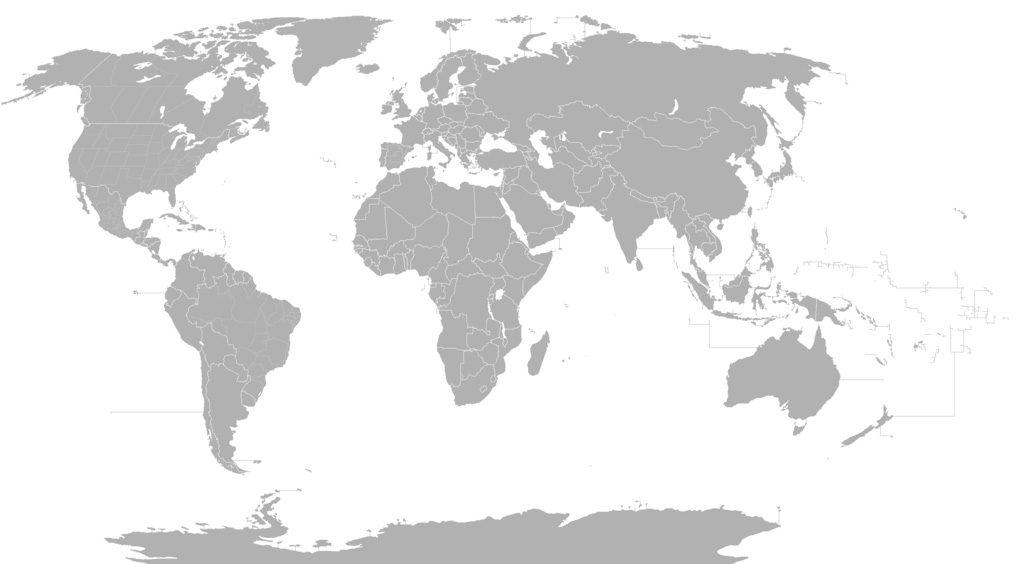
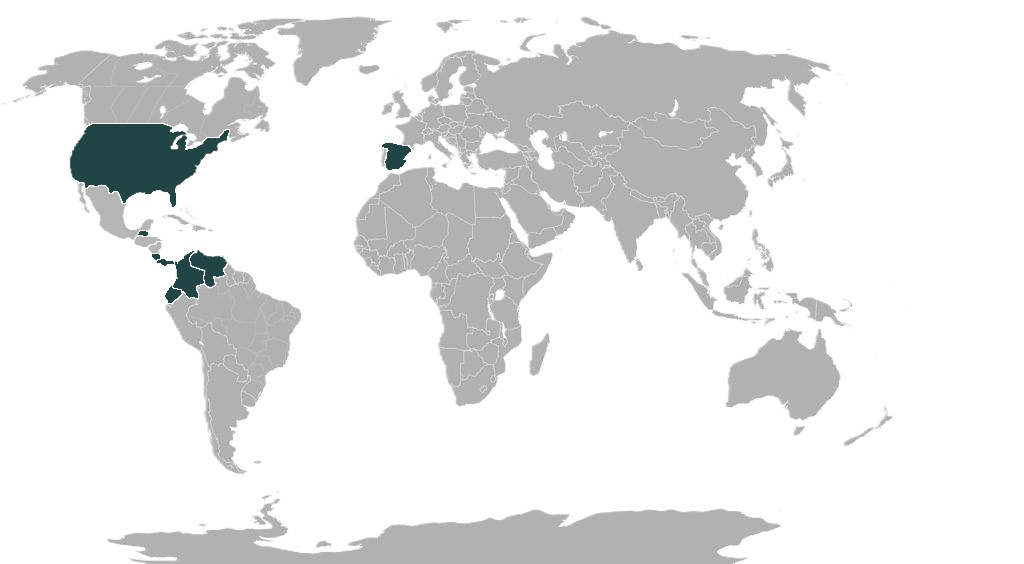
ajustes navbar y intento del mapa

diff --git a/Conocenos.html b/Conocenos.html
@@ -35,7 +35,7 @@
             <nav class="navigation-wrap">
                 <nav class="menu">
                     <nav role="navigation" class="navigation-items w-nav-menu">
-                        <a href="https://sparisca04.github.io/pixales/Conocenos.html" class="navigation-item w-nav-link w--current">¡Conócenos!</a>
+                        <a href="https://sparisca04.github.io/pixales/Conocenos.html" class="navigation-item w-nav-link">¡Conócenos!</a>
                         <a href="https://sparisca04.github.io/pixales/Servicios.html" class="navigation-item w-nav-link">servicios</a>
                         <a href="https://sparisca04.github.io/pixales/Casos_de_Exito.html" class="navigation-item w-nav-link">casos de éxito</a>
                     </nav>
@@ -44,8 +44,10 @@
                     </div>
                 </nav>
                 <a href="https://sparisca04.github.io/pixales/Home.html" aria-current="page" class="logo-link w-nav-brand w--current" aria-label="home">
-                    <img src="https://github.com/sparisca04/pixales/blob/main/Imagenes/Logo%20x.png?raw=true" width="67" alt="" class="logo-image"></a>
-                    <a href="https://sparisca04.github.io/pixales/contactanos.html" class="button cc-contact-us w-inline-block">
+                    <img src="https://github.com/sparisca04/pixales/blob/main/Imagenes/Logo%20completo.png?raw=true" width="67" alt="" class="logo-image" style="height: 60px;width: auto;" id="logo">
+                    <img src="https://github.com/sparisca04/pixales/blob/main/Imagenes/Logo%20x.png?raw=true" width="67" alt="" class="logo-image hidden" id="logo-pequeño">
+                </a>
+                    <a href="https://sparisca04.github.io/pixales/contactanos.html" class="button cc-contact-us w-inline-block" id="contactanos">
                         <div>Contáctanos</div>
                     </a>
             </nav>
@@ -54,7 +56,8 @@
         <div>
             <div class="intro-header2">
                 <div class="intro-content cc-homepage">
-                    <div class="intro-text">Conectamos<br>ESTRATEGIA y EJECUCIÓN<br>para generar<br>CONVERSIÓN</div>
+                    <div class="intro-text">CONECTAMOS ESTRATEGIA y EJECUCIÓN PARA GENERAR CONVERSIÓN</div>
+                    <div class="divider-intro"></div>
                 </div>
             </div>
         </div>
@@ -282,7 +285,36 @@
                     </div>
             </div>
             <div style="display: flex; justify-content: center; margin: 60px;">
-                <img src="https://github.com/sparisca04/pixales/blob/main/Imagenes/mapa.jpg?raw=true">
+                <img src="https://github.com/sparisca04/pixales/blob/main/Imagenes/mapa.jpg?raw=true" usemap="#mapa">
+                <map name="mapa">
+                    <area shape="rect" coords="87,126,172,138" title="us1" href="#" class="US">
+                    <area shape="rect" coords="80,137,169,150" title="us2" href="#" class="US">
+                    <area shape="rect" coords="73,151,198,163" title="us3" href="#" class="US">
+                    <area shape="rect" coords="73,166,192,175" title="us4" href="#" class="US">
+                    <area shape="rect" coords="75,176,179,183" title="us5" href="#" class="US">
+                    <area shape="rect" coords="107,185,174,191" title="us7" href="#" class="US">
+                    <area shape="rect" coords="119,192,128,200" title="us8" href="#" class="US">
+                    <area shape="rect" coords="170,192,175,206" title="us9" href="#" class="US">
+                    <area shape="rect" coords="172,131,182,134" title="us10" href="#" class="US">
+                    <area shape="rect" coords="178,135,185,147" title="us11" href="#" class="US">
+                    <area shape="rect" coords="198,144,217,152" title="us12" href="#" class="US">
+                    <area shape="rect" coords="207,136,227,140" title="us13" href="#" class="US">
+                    <area shape="rect" coords="389,142,403,165" title="esp1" href="#" class="ES">
+                    <area shape="rect" coords="382,143,409,150" title="esp2" href="#" class="ES">
+                    <area shape="rect" coords="138,231,148,235" title="guate" href="#" class="Guate">
+                    <area shape="rect" coords="151,253,159,257" title="cr" href="#" class="CR">
+                    <area shape="rect" coords="157,259,173,264" title="pan" href="#" class="Panama">
+                    <area shape="rect" coords="180,266,192,285" title="col1" href="#" class="Col">
+                    <area shape="rect" coords="181,259,187,262" title="col2" href="#" class="Col">
+                    <area shape="rect" coords="184,284,195,293" title="col3" href="#" class="Col">
+                    <area shape="rect" coords="195,269,201,281" title="col4" href="#" class="Col">
+                    <area shape="rect" coords="175,280,182,287" title="col5" href="#" class="Col" >
+                    <area shape="rect" coords="194,254,223,265" title="ven1" href="#" class="Ven">
+                    <area shape="rect" coords="207,266,223,275" title="ven2" href="#" class="Ven">
+                    <area shape="rect" coords="204,277,213,285" title="ven3" href="#" class="Ven">
+                    <area shape="rect" coords="166,290,177,297" title="ecu" href="#" class="Ecu">
+                </map>
+                <div class="persona1">OE</div>
             </div>
 
         </div>

diff --git a/Casos_de_Exito.html b/Casos_de_Exito.html
@@ -37,15 +37,17 @@
                     <nav role="navigation" class="navigation-items w-nav-menu">
                         <a href="https://sparisca04.github.io/pixales/Conocenos.html" class="navigation-item w-nav-link">¡Conócenos!</a>
                         <a href="https://sparisca04.github.io/pixales/Servicios.html" class="navigation-item w-nav-link">servicios</a>
-                        <a href="https://sparisca04.github.io/pixales/Casos_de_Exito.html" class="navigation-item w-nav-link w--current">casos de éxito</a>
+                        <a href="https://sparisca04.github.io/pixales/Casos_de_Exito.html" class="navigation-item w-nav-link">casos de éxito</a>
                     </nav>
                     <div class="menu-button w-nav-button" aria-label="menu" role="button" tabindex="0" aria-controls="w-nav-overlay-0" aria-haspopup="menu" aria-expanded="false">
                         <img src="https://raw.githubusercontent.com/sparisca04/Pixales-code/main/Imagenes/menu%20icon.webp?token=GHSAT0AAAAAACGPLY23QEHE7DWGYCRXNGOKZHODOGQ" width="67" alt="" class="menu-icon">
                     </div>
                 </nav>
                 <a href="https://sparisca04.github.io/pixales/Home.html" aria-current="page" class="logo-link w-nav-brand w--current" aria-label="home">
-                    <img src="https://github.com/sparisca04/pixales/blob/main/Imagenes/Logo%20x.png?raw=true" width="67" alt="" class="logo-image"></a>
-                    <a href="https://sparisca04.github.io/pixales/contactanos.html" class="button cc-contact-us w-inline-block">
+                    <img src="https://github.com/sparisca04/pixales/blob/main/Imagenes/Logo%20completo.png?raw=true" width="67" alt="" class="logo-image" style="height: 60px;width: auto;" id="logo">
+                    <img src="https://github.com/sparisca04/pixales/blob/main/Imagenes/Logo%20x.png?raw=true" width="67" alt="" class="logo-image hidden" id="logo-pequeño">
+                </a>
+                    <a href="https://sparisca04.github.io/pixales/contactanos.html" class="button cc-contact-us w-inline-block" id="contactanos">
                         <div>Contáctanos</div>
                     </a>
             </nav>

diff --git a/Servicios.html b/Servicios.html
@@ -36,7 +36,7 @@
                 <nav class="menu">
                     <nav role="navigation" class="navigation-items w-nav-menu">
                         <a href="https://sparisca04.github.io/pixales/Conocenos.html" class="navigation-item w-nav-link">¡Conócenos!</a>
-                        <a href="https://sparisca04.github.io/pixales/Servicios.html" class="navigation-item w-nav-link w--current">servicios</a>
+                        <a href="https://sparisca04.github.io/pixales/Servicios.html" class="navigation-item w-nav-link">servicios</a>
                         <a href="https://sparisca04.github.io/pixales/Casos_de_Exito.html" class="navigation-item w-nav-link">casos de éxito</a>
                     </nav>
                     <div class="menu-button w-nav-button" aria-label="menu" role="button" tabindex="0" aria-controls="w-nav-overlay-0" aria-haspopup="menu" aria-expanded="false">
@@ -44,8 +44,10 @@
                     </div>
                 </nav>
                 <a href="https://sparisca04.github.io/pixales/Home.html" aria-current="page" class="logo-link w-nav-brand w--current" aria-label="home">
-                    <img src="https://github.com/sparisca04/pixales/blob/main/Imagenes/Logo%20x.png?raw=true" width="67" alt="" class="logo-image"></a>
-                    <a href="https://sparisca04.github.io/pixales/contactanos.html" class="button cc-contact-us w-inline-block">
+                    <img src="https://github.com/sparisca04/pixales/blob/main/Imagenes/Logo%20completo.png?raw=true" width="67" alt="" class="logo-image" style="height: 60px;width: auto;" id="logo">
+                    <img src="https://github.com/sparisca04/pixales/blob/main/Imagenes/Logo%20x.png?raw=true" width="67" alt="" class="logo-image hidden" id="logo-pequeño">
+                </a>
+                    <a href="https://sparisca04.github.io/pixales/contactanos.html" class="button cc-contact-us w-inline-block" id="contactanos">
                         <div>Contáctanos</div>
                     </a>
             </nav>

diff --git a/Home.html b/Home.html
@@ -45,8 +45,9 @@
                         </div>
                     </nav>
                     <a href="https://sparisca04.github.io/pixales/Home.html" aria-current="page" class="logo-link w-nav-brand w--current" aria-label="home">
-                        <img src="https://github.com/sparisca04/pixales/blob/main/Imagenes/Logo%20completo.png?raw=true" width="67" alt="" class="logo-image" style="height: 60px;width: auto;" id="logo"></a>
-                        <img src="https://github.com/sparisca04/pixales/blob/main/Imagenes/Logo%20x.png?raw=true" width="67" alt="" class="logo-image hidden" id="logo-pequeño"></a>
+                        <img src="https://github.com/sparisca04/pixales/blob/main/Imagenes/Logo%20completo.png?raw=true" width="67" alt="" class="logo-image" style="height: 60px;width: auto;" id="logo">
+                        <img src="https://github.com/sparisca04/pixales/blob/main/Imagenes/Logo%20x.png?raw=true" width="67" alt="" class="logo-image hidden" id="logo-pequeño">
+                    </a>
                         <a href="https://sparisca04.github.io/pixales/contactanos.html" class="button cc-contact-us w-inline-block" id="contactanos">
                             <div>Contáctanos</div>
                         </a>

diff --git a/CSS/clases.css b/CSS/clases.css
@@ -379,6 +379,13 @@ border-radius: 50%;
   margin: 15px 0px;
 }
 
+.persona1 {
+  visibility: hidden;
+}
+.US:hover + .persona1 {
+  visibility: visible;
+}
+
 .w-icon-slider-right:before {
   content: "►";
 }
